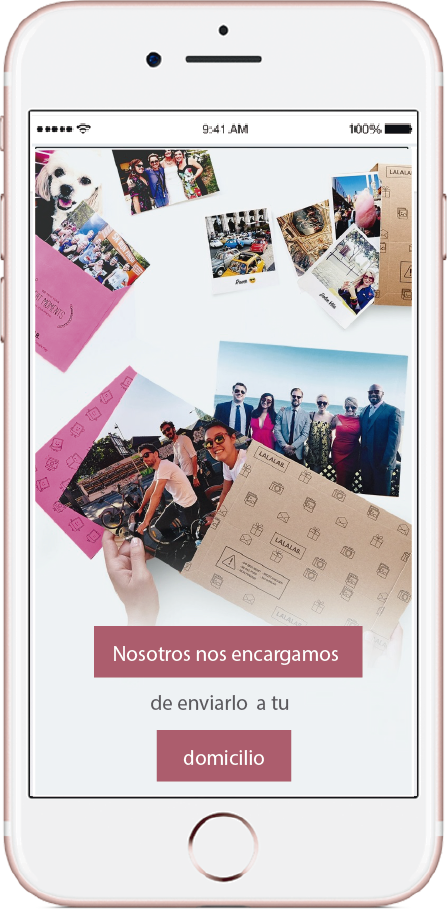
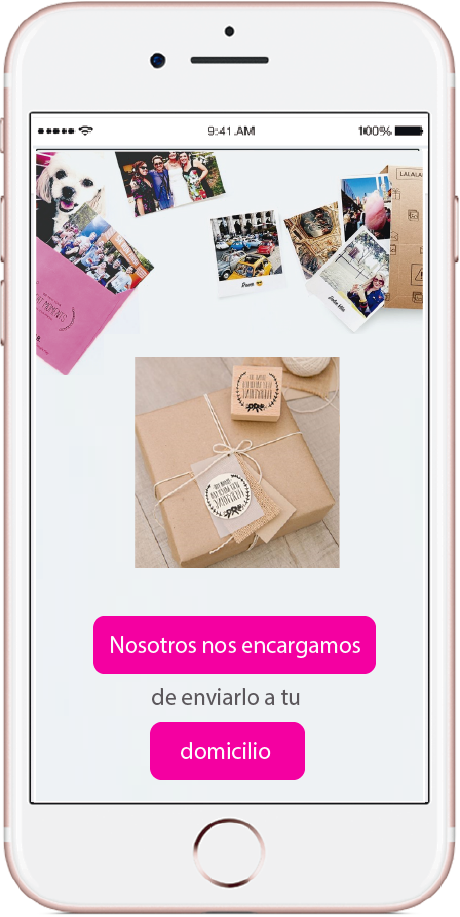
subiendo commit de photobum3

diff --git a/index.html b/index.html
@@ -10,7 +10,7 @@
 	<meta name="Resource-type" content="Document" />
 
 
-	<link rel="stylesheet" type="text/css" href="css/jquery.fullPage.css" />	
+	<link rel="stylesheet" type="text/css" href="css/jquery.fullPage.css" />
 	<link rel="stylesheet" type="text/css" href="css/bootstrap.min.css" />
 	<link rel="stylesheet" type="text/css" href="css/examples.css" />
 	<link rel="stylesheet" type="text/css" href="css/main.css" />
@@ -23,15 +23,15 @@
 	<script src="http://ajax.googleapis.com/ajax/libs/jquery/1.8.3/jquery.min.js"></script>
 	<script src="http://ajax.googleapis.com/ajax/libs/jqueryui/1.9.1/jquery-ui.min.js"></script>
 
-	
+
 	<script type="text/javascript" src="js/jquery.min.js"></script>
 	<script type="text/javascript" src="js/jquery.fullPage.js"></script>
 	<script type="text/javascript" src="js/bootstrap.min.js"></script>
 	<script type="text/javascript" src="js/examples.js"></script>
-	
+
 	<script type="text/javascript">
 		$(document).ready(function() {
-			$('#fullpage').fullpage({				
+			$('#fullpage').fullpage({
 				anchors: ['1page', '2page', '3page'],
 				menu: '#menu2',
 				scrollingSpeed: 1700
@@ -53,7 +53,7 @@
 <body>
 
 	<!--<ul id="menu">
-		<img class="logo" src="img/logo2.png" alt="">		
+		<img class="logo" src="img/logo2.png" alt="">
 	</ul>-->
 
 	<div id="fullpage">
@@ -61,15 +61,16 @@
 			<div class="container">
 				<div class="row">
 					<div class="col-lg-12 text-center">
-					<div class="row pd-6"> 
+					<div class="row pd-6">
+						<br>
 						<h2 class=" titulo-frase">Da vida a tus recuerdos</h2>
-						<h6>IMPRIME TUS MEJORES FOTOS Y SONRÍE LOS 360 DÍAS DEL AÑO</h6>
+						<h6 class="h6-bum">IMPRIME TUS MEJORES FOTOS Y SONRÍE LOS 360 DÍAS DEL AÑO</h6>
 					</div>
 						<div class="row">
-							<div class="col-lg-6">
+							<div class="col-lg-6 col-md-6 col-sm-6 col-xs-12">
 								<img  class="play" data-toggle="modal" data-target="#myModal"   src="imgPB/play.png" alt="">
 							</div>
-							<div class="col-lg-6">
+							<div class="col-lg-6 col-md-6 col-sm-6 col-xs-12">
 								<img  class="store" data-toggle="modal" data-target="#myModal"   src="imgPB/store.png" alt="">
 							</div>
 						</div>
@@ -80,12 +81,12 @@
 						</div>
 					</div>-->
 
-					
-				</div>		
+
+				</div>
 				<div class="row pd-flecha">
 					<a href="#2page"><i class="fa fa-angle-down"></i></a>
-				</div>		
-			</div>		
+				</div>
+			</div>
 		</div>
 
 		<<div class="section" id="section1">
@@ -116,16 +117,16 @@ Tomamos más y más fotos con nuestros teléfonos inteligentes todos los días. 
 			</div>
 		</div>
 
-		
+
 		<div class="section soyimagen" id="section2" >
 
 			<div class="slide">
 				<div class="container">
 					<div class="row">
-						<div class="col-lg-8 text-center">
+						<div class="col-lg-8 col-md-8 col-sm-8 col-xs-12 text-center">
 							<h1 class="pd-28 text-4m">Imprimir tus mejores momentos nunca antes fue tan fácil</h1>
 						</div>
-						<div class="col-lg-4">
+						<div class="col-lg-4 col-md-4 col-sm-4 col-xs-12">
 							<div class="iphone">
 								<img class="celular" src="imgPB/img1.png" alt="">
 							</div>
@@ -138,10 +139,10 @@ Tomamos más y más fotos con nuestros teléfonos inteligentes todos los días. 
 			<div class="slide">
 				<div class="container">
 					<div class="row">
-						<div class="col-lg-8 text-center">
+						<div class="col-lg-8 col-md-8 col-sm-8 col-xs-12 text-center">
 							<h1 class="pd-28 text-4m">Selecciona una de las 2 opciones que te ofrecemos</h1>
 						</div>
-						<div class="col-lg-4">
+						<div class="col-lg-4 col-md-4 col-sm-4 col-xs-12">
 							<div class="iphone">
 								<img class="celular" src="imgPB/img2.png" alt="">
 							</div>
@@ -154,10 +155,10 @@ Tomamos más y más fotos con nuestros teléfonos inteligentes todos los días. 
 				<div class="slide">
 				<div class="container">
 					<div class="row">
-						<div class="col-lg-8 text-center">
-							<h1 class="pd-28 text-4m"> Usa las fotos de tu celular, Facebook, Instagram & Flickr </h1>
+						<div class="col-lg-8 col-md-8 col-sm-8 col-xs-12 text-center">
+							<h1 class="pd-28 text-4m"> Usa las fotos de tu celular, Facebook & Instagram </h1>
 						</div>
-						<div class="col-lg-4">
+						<div class="col-lg-4 col-md-4 col-sm-4 col-xs-12">
 							<div class="iphone">
 								<img class="celular" src="imgPB/img3.png" alt="">
 							</div>
@@ -170,12 +171,28 @@ Tomamos más y más fotos con nuestros teléfonos inteligentes todos los días. 
 				<div class="slide">
 				<div class="container">
 					<div class="row">
-						<div class="col-lg-8 text-center">
+						<div class="col-lg-8 col-md-8 col-sm-8 col-xs-12 text-center">
 							<h1 class="pd-28 text-4m">Personaliza tus fotos con solo unos toques</h1>
 						</div>
-						<div class="col-lg-4">
+						<div class="col-lg-4 col-md-4 col-sm-4 col-xs-12">
 							<div class="iphone">
 								<img class="celular" src="imgPB/img4.png" alt="">
+							</div>
+						</div>
+						<a href="#1page"><i class="fa fa-angle-up"></i></a>
+					</div>
+				</div>
+			</div>
+
+					<div class="slide">
+				<div class="container">
+					<div class="row">
+						<div class="col-lg-8 col-md-8 col-sm-8 col-xs-12 text-center">
+							<h1 class="pd-28 text-4m">Realiza el pago en tan solo unos segundos</h1>
+						</div>
+						<div class="col-lg-4 col-md-4 col-sm-4 col-xs-12">
+							<div class="iphone">
+								<img class="celular" src="imgPB/pasarela.png" alt="">
 							</div>
 						</div>
 						<a href="#1page"><i class="fa fa-angle-up"></i></a>
@@ -186,10 +203,10 @@ Tomamos más y más fotos con nuestros teléfonos inteligentes todos los días. 
 				<div class="slide">
 				<div class="container">
 					<div class="row">
-						<div class="col-lg-8 text-center">
+						<div class="col-lg-8 col-md-8 col-sm-8 col-xs-12 text-center">
 							<h1 class="pd-28 text-4m">	Nosotros nos encargamos de llevarlo a tu domicilio</h1>
 						</div>
-						<div class="col-lg-4">
+						<div class="col-lg-4 col-md-4 col-sm-4 col-xs-12">
 							<div class="iphone">
 								<img class="celular" src="imgPB/img5.png" alt="">
 							</div>

diff --git a/css/main.css b/css/main.css
@@ -26,10 +26,10 @@ h3
 	font-size: 16px;
 }
 .text-4m{
-	font-size:4em; 
+	font-size:4em;
 }
 .text-2m{
-	font-size:3em; 
+	font-size:3em;
 }
 .titulo-frase{
 	color:#454553;
@@ -93,7 +93,7 @@ h3
 }
 
 .logo{
-	width: 20%;	
+	width: 20%;
 }
 
 .descargar{
@@ -119,25 +119,25 @@ a .fa{
 }
 
 
-@media screen and (max-width: 479px) {
+@media screen and (max-width: 500px) {
 	h1{
 		font-size: 3em;
 	}
 	.logo{
-		width: 30%;	
+		width: 30%;
 	}
 	.celular{
-		width: 30%;
+		width: 70%;
 	}
 	.fp-controlArrow.fp-next {
 	    right: 15px;
 	    border-width: 13px 0px 13px 19px;
-	    border-color: transparent transparent transparent #FFF;
+	    border-color: transparent transparent transparent #f400a1;
 	}
 	.fp-controlArrow.fp-prev {
 	    right: 15px;
 	    border-width: 13px 0px 13px 19px;
-	    border-color: transparent transparent transparent #FFF;
+	    border-color: transparent transparent transparent #f400a1;
 	}
 	.pd-23{
 		padding: 15% 5% 5% 5%;
@@ -149,6 +149,40 @@ a .fa{
 	.iphone{
 		margin-top: 5%;
 	}
+	.play{
+		float: inherit;
+	width: 40%;
+	margin-bottom: 3%;
+		}
+		.store{
+			float: inherit;
+    width: 40%;
+
+			}
+			.h6-bum{
+				    margin: 3%;
+			}
+			.titulo-frase{
+				margin-top: 48%;
+font-size: 20px;
+			}
+			.text-2m{
+				font-size: 22px;
+			}
+			.p-font{
+				margin-top:2%;
+			}
+			.text-4m{
+				font-size: 22px;
+			}
+			.fp-tableCell {
+    display: table-cell;
+    vertical-align: sub!important;
+    height: 100%;
+}
+.pd-28 {
+    padding: 10% 5% 5% 5%;
+}
 }
 
 @media (min-width:480px) and (max-width: 767px)  {
@@ -156,7 +190,7 @@ a .fa{
 		font-size: 3em;
 	}
 	.logo{
-		width: 30%;	
+		width: 30%;
 	}
 	.descargar{
 		width: 60%;
@@ -184,13 +218,13 @@ a .fa{
 	.iphone{
 		margin-top: 5%;
 	}
-} 
+}
 
 @media (min-width:768px) and (max-width: 980px)  {
 	h1{
 		font-size: 4em;
 	}
 	.logo{
-		width: 20%;	
+		width: 20%;
 	}
-} 
+}

diff --git a/css/jquery.fullPage.css b/css/jquery.fullPage.css
@@ -81,12 +81,12 @@ html.fp-enabled,
     left: 15px;
     width: 0;
     border-width: 38.5px 34px 38.5px 0;
-    border-color: transparent #fff transparent transparent;
+    border-color: transparent #f400a1 transparent transparent;
 }
 .fp-controlArrow.fp-next {
     right: 15px;
     border-width: 38.5px 0 38.5px 34px;
-    border-color: transparent transparent transparent #fff;
+    border-color: transparent transparent transparent #f400a1;
 }
 .fp-scrollable {
     overflow: scroll;
